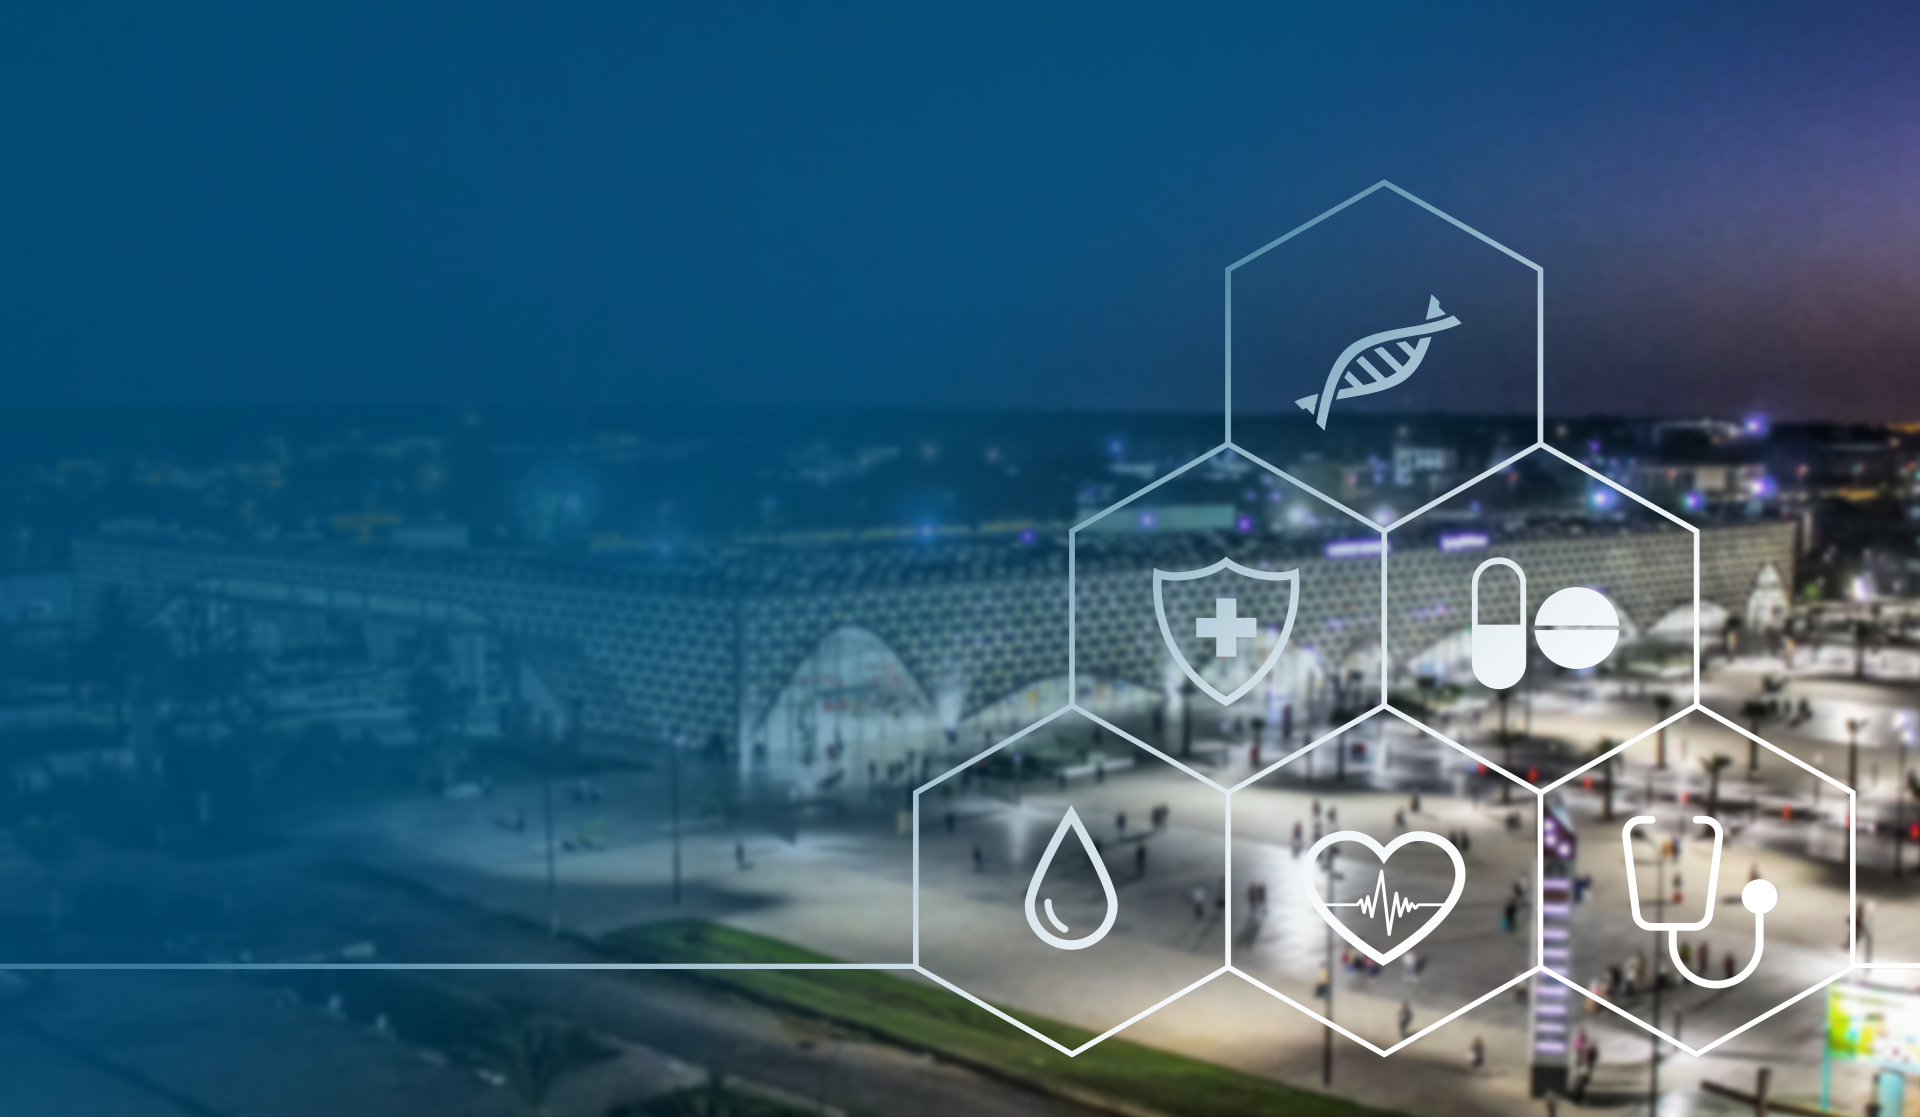
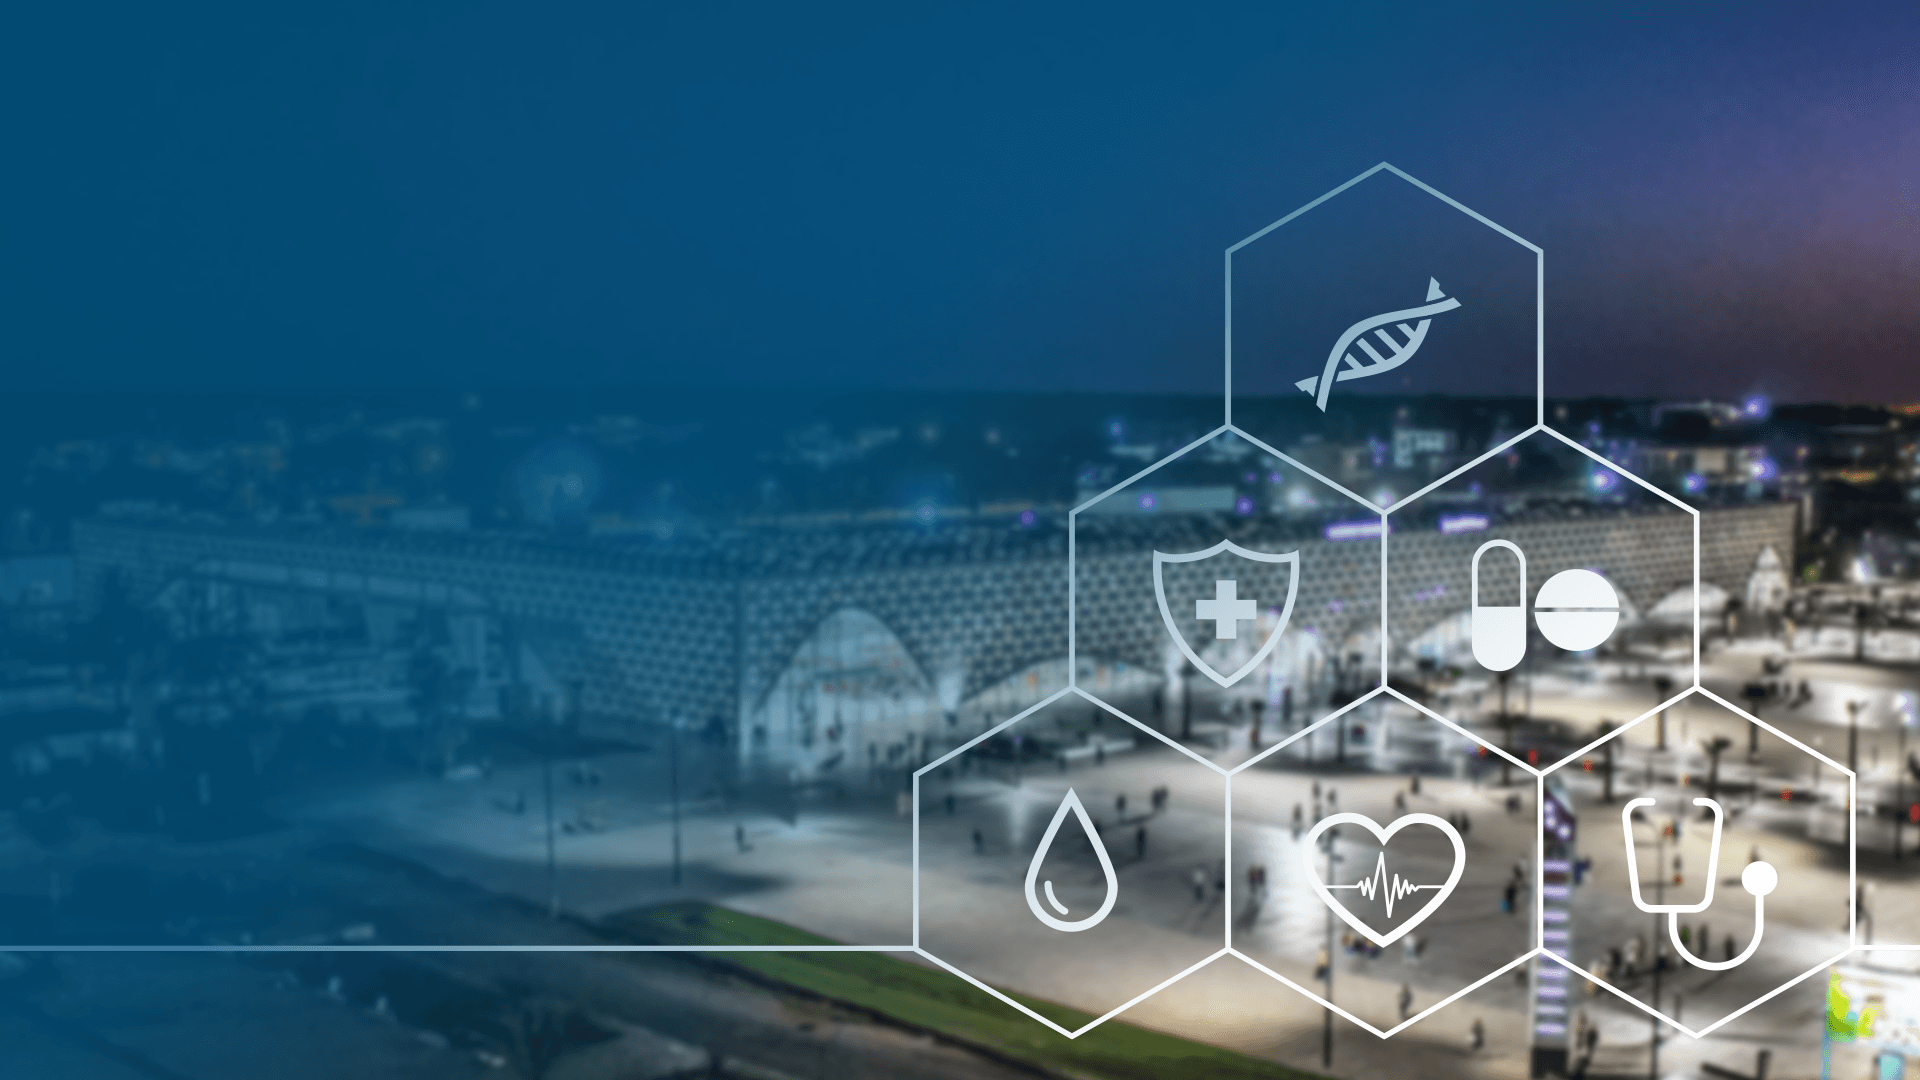
saving on github

diff --git a/src/components/Accueil/Acceuil.jsx b/src/components/Accueil/Acceuil.jsx
@@ -8,6 +8,8 @@ import './Acceuil.css'
  import {FaCentercode, FaHeartbeat} from 'react-icons/fa'
 import {ImArrowRight2} from 'react-icons/im'
 import {FaPhoneAlt} from 'react-icons/fa'
+import {BsCalendarWeekFill} from 'react-icons/bs'
+
 import image1 from '../images/image1.png'
 import { Button } from '../buttons/Button';
 import AOS from 'aos';
@@ -47,7 +49,7 @@ const Acceuil = () => {
                             a domicile</h1>
                             <div className="buttom-content">
                      
-                                <FaHeartbeat className='icon'></FaHeartbeat>
+                                <BsCalendarWeekFill className='icon'></BsCalendarWeekFill>
                                 <button className='btn-circle'>
                                     <ImArrowRight2 className='icon1'></ImArrowRight2>
                                 </button>
@@ -71,7 +73,7 @@ const Acceuil = () => {
                             <h1>Avez vous une Urgence?</h1>
                             
                             <div className="buttom-content">
-                                <FaHeartbeat className='icon'></FaHeartbeat>
+                                <a href="tel:0537777333"><FaPhoneAlt className='icon'></FaPhoneAlt></a>
                                 <button className='btn-circle'>
                                     <ImArrowRight2 className='icon1'></ImArrowRight2>
                                 </button>
@@ -111,7 +113,7 @@ const Acceuil = () => {
                     
                 </div>
                 <div data-aos={"fade-up-right"}  data-aos-duration="800" className="call"><label className="sidetext">appelez-nous!</label>
-                    <Button className='btn' buttonSize={'btn--med'}><FaPhoneAlt className='icon'/>0537777333</Button>
+                <a id="btn" href="tel:0537777333"><FaPhoneAlt className='icon' id="ic"/> 0537777333 </a>
                 
                 </div>
                 

diff --git a/src/components/Accueil/Acceuil.scss b/src/components/Accueil/Acceuil.scss
@@ -8,14 +8,14 @@ $primary-font:'Lexend';
   }
  
 #main{
-    margin-top: -80px;
-    overflow: hidden;        
+    margin-top: -70px;
     position: relative;
+    overflow: hidden;
     height: 100%;
     .back{
         overflow: hidden;
-        width: 111.5%;
-        min-width: 1800px;
+        width: 110%;
+        min-width: 1400px;
         z-index: -111;
         position: relative;
         max-height: 1080px;
@@ -59,9 +59,48 @@ $primary-font:'Lexend';
     }
 
 }
+
+
+
+
+
+@media (max-width:1650px)
+{
+    #main{
+        
+        .back{
+            z-index: -111;
+            position: relative;
+            height: 900px;
+        }
+        
+       .content-card{
+        margin-top: -25em;
+        margin-bottom: 2em;
+        .card{
+            border-radius: 10px;
+            margin: auto;
+        }
+        }
+    }  
+
+    #sos-medecins{
+        .image1{
+            margin-top: -0px;
+        }
+    }
+}
 @media (max-width:900px)
 {
     #main{
+
+        .back{
+            width: 110%;
+            height: 1100px;
+        }
+        .content{
+            margin-top: 150px;
+        }
        .content-card{
         margin-top: -40em;
         margin-bottom: 2em;

diff --git a/src/components/contact/Contact.jsx b/src/components/contact/Contact.jsx
@@ -173,7 +173,7 @@ function sendEmail(e){
                       {/* Single item */}
 
                         <br />
-                        <input className='check check1' type="checkbox" value="Duplicata ou problème de feuille de soins" name='check' required/> 
+                        <input className='check check1' type="checkbox" value="Duplicata ou problème de feuille de soins" name='check' /> 
                         <label className='text-check'   htmlFor="check">Duplicata ou problème de feuille de soins</label>
                         <br />
                         <input className='check check2'  type="checkbox" value=" Duplicata ou problème d’arrêt de travail" name='check1' />
@@ -207,7 +207,7 @@ function sendEmail(e){
                         <ReCAPTCHAForm />
 
                         <br />
-                      <input className='btn' type="submit" value="Send"
+                      <input className='btn' type="submit" value="Envoyer"
                        />
 
                     </form>

diff --git a/src/components/Accueil/Acceuil.css b/src/components/Accueil/Acceuil.css
@@ -6,16 +6,16 @@
 }
 
 #main {
-  margin-top: -80px;
-  overflow: hidden;
+  margin-top: -70px;
   position: relative;
+  overflow: hidden;
   height: 100%;
 }
 
 #main .back {
   overflow: hidden;
-  width: 111.5%;
-  min-width: 1800px;
+  width: 110%;
+  min-width: 1400px;
   z-index: -111;
   position: relative;
   max-height: 1080px;
@@ -59,7 +59,33 @@
   color: white;
 }
 
+@media (max-width: 1650px) {
+  #main .back {
+    z-index: -111;
+    position: relative;
+    height: 900px;
+  }
+  #main .content-card {
+    margin-top: -25em;
+    margin-bottom: 2em;
+  }
+  #main .content-card .card {
+    border-radius: 10px;
+    margin: auto;
+  }
+  #sos-medecins .image1 {
+    margin-top: -0px;
+  }
+}
+
 @media (max-width: 900px) {
+  #main .back {
+    width: 110%;
+    height: 1100px;
+  }
+  #main .content {
+    margin-top: 150px;
+  }
   #main .content-card {
     margin-top: -40em;
     margin-bottom: 2em;

diff --git a/src/components/Que-sommes-nous/sommesnous.css b/src/components/Que-sommes-nous/sommesnous.css
@@ -134,18 +134,26 @@
   margin-top: 100px;
   text-align: center;
   margin-bottom: 100px;
+  display: -webkit-box;
+  display: -ms-flexbox;
+  display: flex;
+  -ms-flex-wrap: wrap;
+      flex-wrap: wrap;
+  -webkit-box-align: center;
+      -ms-flex-align: center;
+          align-items: center;
 }
 
 #main-nous .call .sidetext {
   font-size: 35px;
   font-weight: 600;
   margin-right: 50px;
-  padding-bottom: 40px;
   font-family: "Lexend";
   color: #DF1416;
+  margin-bottom: 30px;
 }
 
-#main-nous .call .btn {
+#main-nous .call #btn {
   font-size: 24px;
   font-weight: 600;
   -webkit-box-align: center;
@@ -154,7 +162,7 @@
   border-radius: 5px;
 }
 
-#main-nous .call .btn .icon {
+#main-nous .call #btn .icon {
   margin-right: 10px;
 }
 

diff --git a/src/components/Que-sommes-nous/sommesnous.jsx b/src/components/Que-sommes-nous/sommesnous.jsx
@@ -80,9 +80,9 @@ export const Sommesnous = () => {
                   </div>        
 
                 </div>
-                <div  className="call"><label className="sidetext">appelez-nous!</label>
-                    <Button className='btn' buttonSize={'btn--med'}><FaPhoneAlt className='icon'/> 47 07 77 77</Button>
-                
+                <div  className="call">
+                  <label className="sidetext">appelez-nous!</label>
+                  <a id="btn" href="tel:0537777333"><FaPhoneAlt className='icon' id="ic"/> 0537777333 </a>
                 </div>
             
             {/*Que somme nous */}

diff --git a/src/components/Que-sommes-nous/sommesnous.scss b/src/components/Que-sommes-nous/sommesnous.scss
@@ -126,16 +126,20 @@ $primary-font:'Lexend';
         margin-top: 100px;
         text-align: center;
         margin-bottom: 100px;
+        display: flex;
+        flex-wrap: wrap;
+        align-items: center;
+       
         .sidetext{
             font-size: 35px;
             font-weight: 600;
             margin-right: 50px;
-            padding-bottom: 40px;
             font-family: $primary-font;
             color: $sec-color;
+            margin-bottom: 30px;
         }
 
-        .btn{
+        #btn{
             font-size: 24px;
             font-weight: 600;
             align-items: center;

diff --git a/src/components/Pharmacies-de-garde/Pharmacies.jsx b/src/components/Pharmacies-de-garde/Pharmacies.jsx
@@ -70,12 +70,12 @@ useEffect(() => getRepo(),[]);
 
     <section id="data">
       <div className="container">
-        <h1 className="title">Pharmacies de gard</h1>
+        <h1 className="title">Pharmacies de garde kenitra</h1>
         <div className="content-f">
           
         {repo.map((pharmacies) => (
           
-            <div className="content">  
+          <div className="content">  
             
             <h3>{pharmacies.designation}</h3>
             <b>{pharmacies.date}</b><br />

diff --git a/src/components/Footer/Footer.jsx b/src/components/Footer/Footer.jsx
@@ -52,7 +52,7 @@ const Footer = () => {
                
             </div>
              <div className="bottom-footer">
-                    <label className='text-bottom'><span>©</span> 2022 SOS MEDECINS - Mentions légales - Protection de la vie privée - Cookies - Réalisé par Solocal</label>
+                    <label className='text-bottom'><span>©</span> 2022 URGENCES MEDECINS KENITRA</label>
                 </div>
         </div>
     </footer>

diff --git a/src/components/notreServices/services.scss b/src/components/notreServices/services.scss
@@ -27,8 +27,9 @@ $primary-font:'Lexend';
              top: 0;
              margin: auto;
              margin-top: 70px;
-             width: 100%;
+             width: 90%;
              max-width: 1200px;
+             margin-bottom: 50px;
          } .title{
                
                 color: $primary-color;

diff --git a/src/App.css b/src/App.css
@@ -55,6 +55,13 @@ hr{
   background-color: #df1417;
   padding: 10px 30px;
   z-index: 995;
+  border-radius: 10px;
+  transition: .5s ease-in-out;
 }
 
-
+#btnn:hover{
+  background-color: #a11416;
+}
+#btn:hover{
+  background-color: #ff080c;
+}

diff --git a/src/components/notreServices/services.css b/src/components/notreServices/services.css
@@ -29,8 +29,9 @@
   top: 0;
   margin: auto;
   margin-top: 70px;
-  width: 100%;
+  width: 90%;
   max-width: 1200px;
+  margin-bottom: 50px;
 }
 
 #visite .content-visite .title {
